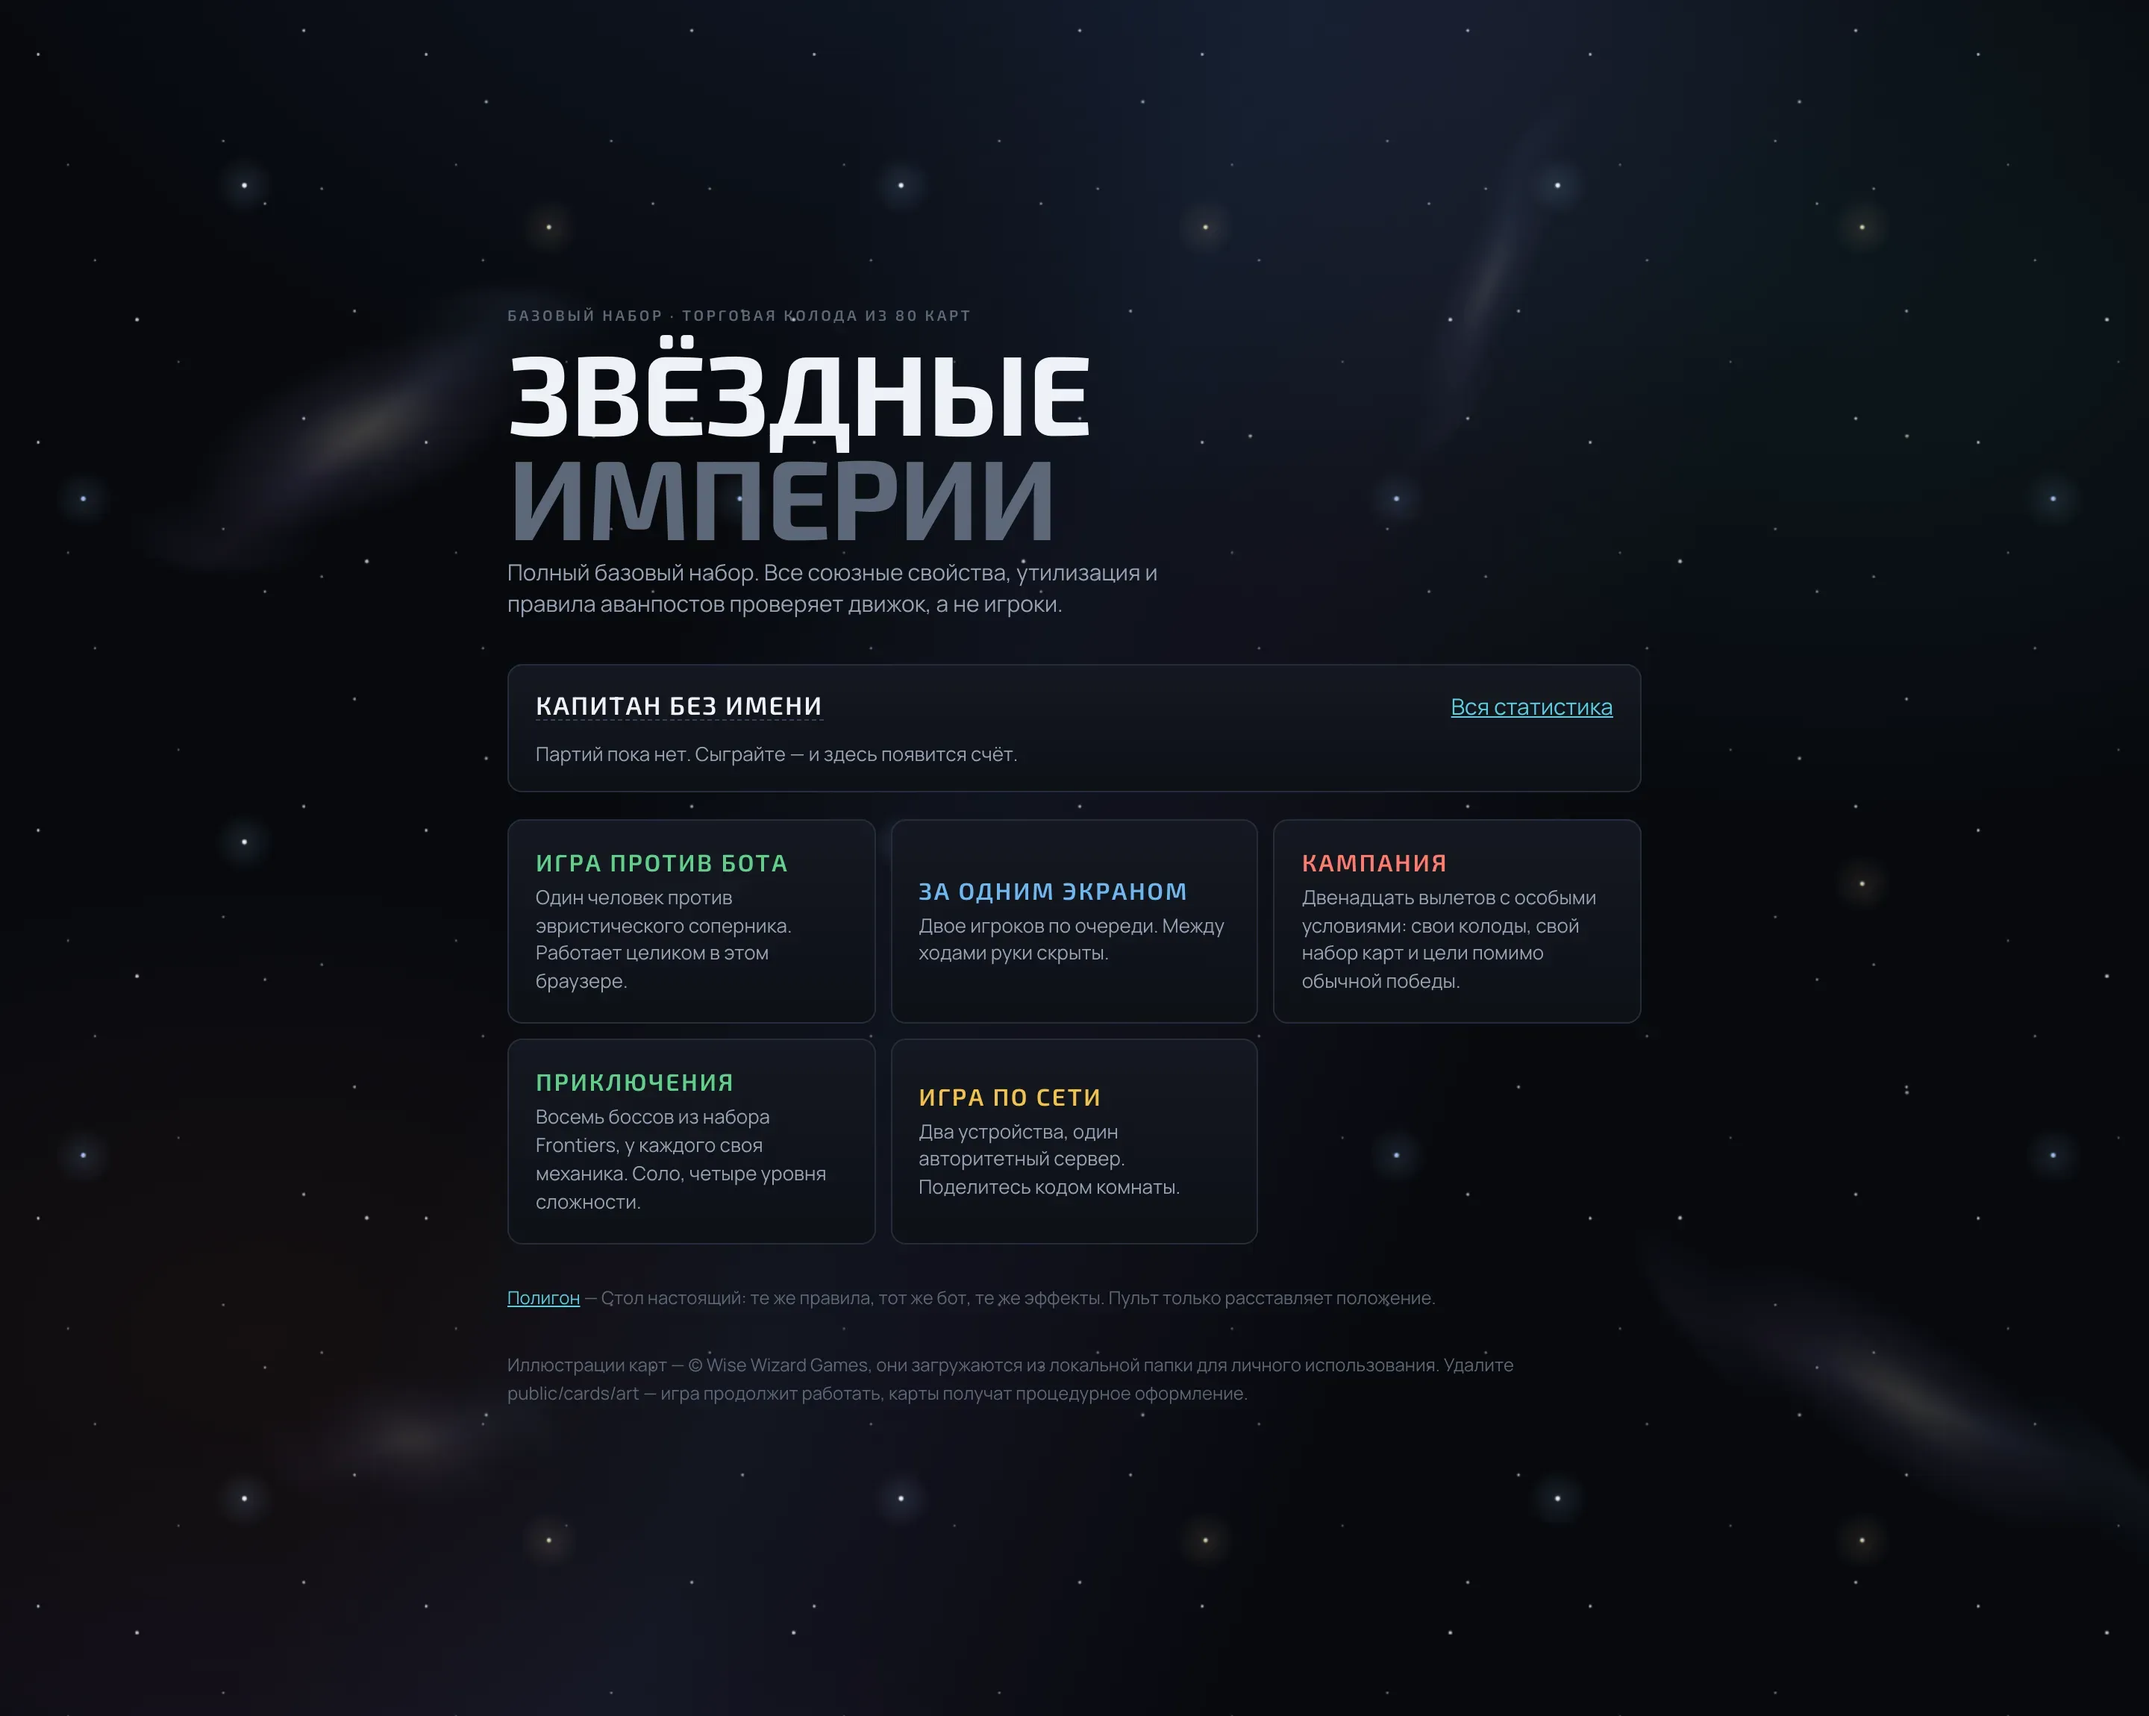
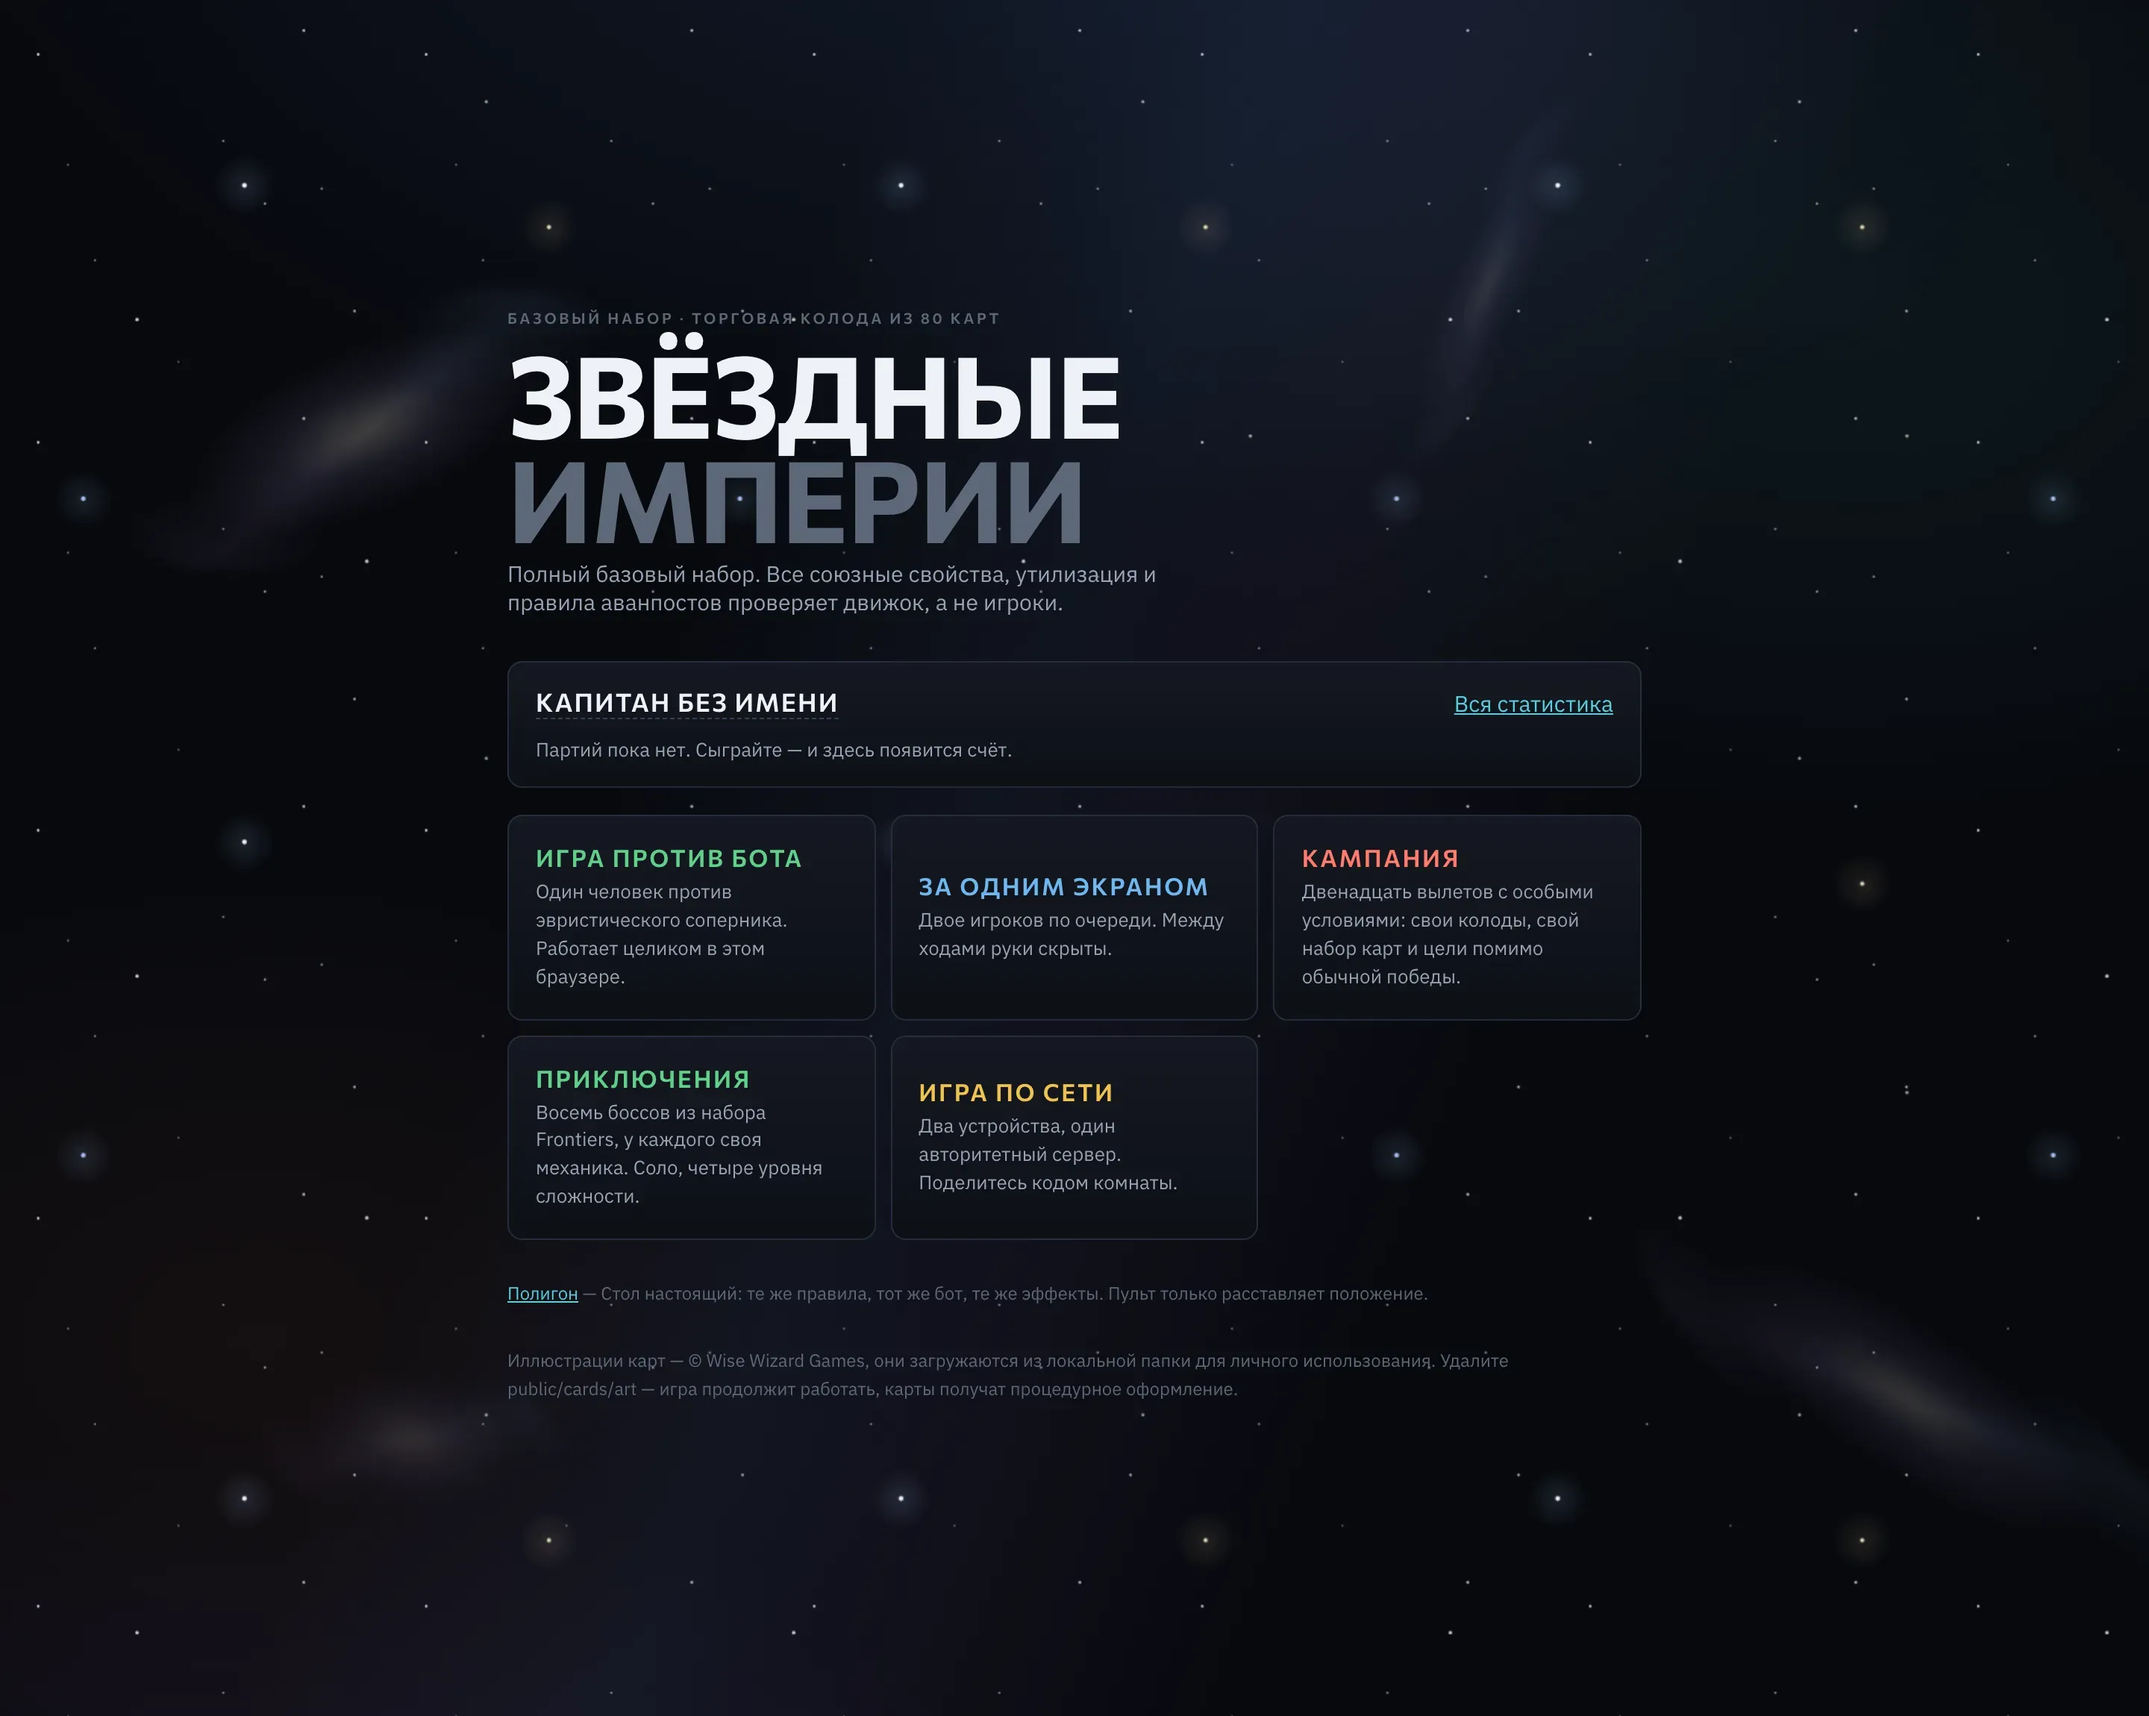
Сменить пару шрифтов на Commissioner и IBM Plex Sans
Названия карт, кнопки и метки зон — Commissioner: спокойный гротеск, который
держит строй в наборе заглавными и не спорит с плотной вёрсткой стола.
Описания свойств — IBM Plex Sans: он разборчив в узкой колонке и рисунком не
конфликтует с дисплейным.

Обе гарнитуры берутся с кириллическими подмножествами — иначе браузер молча
подменяет шрифт посреди фразы. Заодно пересняты снимки для README, а лист
карт и HTML-отчёт подключают те же семейства.

diff --git a/apps/web/src/app/layout.tsx b/apps/web/src/app/layout.tsx
@@ -1,5 +1,5 @@
 import type { Metadata, Viewport } from 'next'
-import { Exo_2, IBM_Plex_Mono, Manrope } from 'next/font/google'
+import { Commissioner, IBM_Plex_Mono, IBM_Plex_Sans } from 'next/font/google'
 import { IconSprite } from '@/components/Icons'
 import './globals.css'
 
@@ -9,13 +9,13 @@ import './globals.css'
 // `cyrillic-ext` без базовой кириллицы, — названия карт набраны дисплейным, и
 // провал был бы виден на каждой.
 //
-// Exo 2 на названиях и Manrope в описаниях: первый техничный и держит форму в
-// наборе заглавными, второй спокойный и не спорит с ним в узкой колонке
-// текста свойства.
-const body = Manrope({
+// Commissioner на названиях и IBM Plex Sans в описаниях: первый спокойный
+// гротеск, который держит строй в наборе заглавными, второй разборчив в узкой
+// колонке текста свойства и не спорит с ним по рисунку.
+const body = IBM_Plex_Sans({
   subsets: ['latin', 'cyrillic'], weight: ['400', '500', '600'], variable: '--f-body', display: 'swap',
 })
-const display = Exo_2({
+const display = Commissioner({
   subsets: ['latin', 'cyrillic'], weight: ['600', '700'], variable: '--f-display', display: 'swap',
 })
 const mono = IBM_Plex_Mono({

diff --git a/apps/web/scripts/card-sheet.ts b/apps/web/scripts/card-sheet.ts
@@ -226,7 +226,7 @@ const PAGE = `<!doctype html>
 <title>Лист карт — размытие плашки</title>
 <link rel="preconnect" href="https://fonts.googleapis.com">
 <link rel="preconnect" href="https://fonts.gstatic.com" crossorigin>
-<link href="https://fonts.googleapis.com/css2?family=Exo+2:wght@400;600;700&family=IBM+Plex+Mono:wght@400;600&family=Manrope:wght@400;500;600&display=swap" rel="stylesheet">
+<link href="https://fonts.googleapis.com/css2?family=Commissioner:wght@400;600;700&family=IBM+Plex+Mono:wght@400;600&family=IBM+Plex+Sans:wght@400;500;600&display=swap" rel="stylesheet">
 <style>
 /*GAME_CSS*/
 </style>

diff --git a/apps/web/src/app/globals.css b/apps/web/src/app/globals.css
@@ -59,8 +59,8 @@
    * обязано быть общим: разойдясь, они разъедутся на широком мониторе. */
   --table-max: 1340px;
 
-  --font-display: 'Exo 2', 'Helvetica Neue', sans-serif;
-  --font-body: 'Manrope', system-ui, sans-serif;
+  --font-display: 'Commissioner', 'Helvetica Neue', sans-serif;
+  --font-body: 'IBM Plex Sans', system-ui, sans-serif;
   --font-mono: 'IBM Plex Mono', ui-monospace, monospace;
 }
 

diff --git a/README.md b/README.md
@@ -140,7 +140,8 @@ npm run shots      # снимки интерфейса для README, docs/scree
 запроса и границы выбора (`prompt`, `min`, `max`), а формулировку целиком строит
 интерфейс, поэтому второй язык не затронет правила.
 
-Шрифты — Exo 2 на названиях карт, кнопках и метках зон и Manrope в описаниях свойств.
+Шрифты — Commissioner на названиях карт, кнопках и метках зон и IBM Plex Sans в описаниях
+свойств.
 Оба берутся с кириллическими подмножествами, и это первое требование к кандидату: у
 IBM Plex Sans Condensed, например, в Google Fonts есть только `cyrillic-ext`, без базовой
 кириллицы, и названия карт молча падали бы на системный шрифт.
